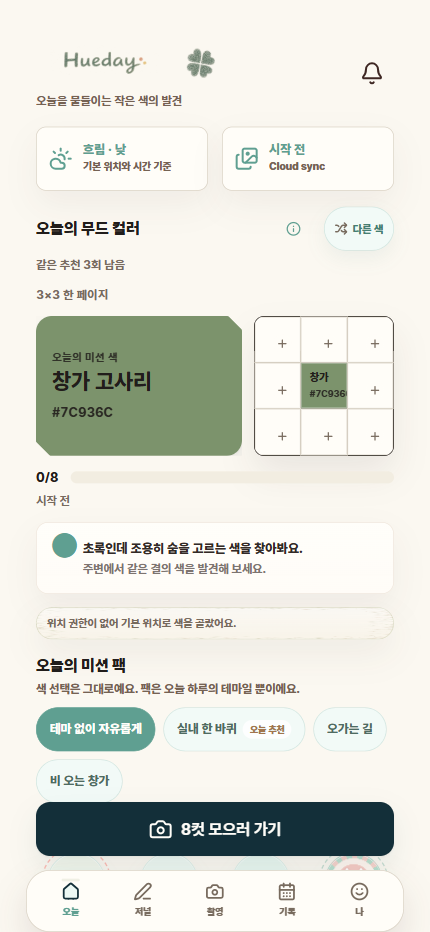
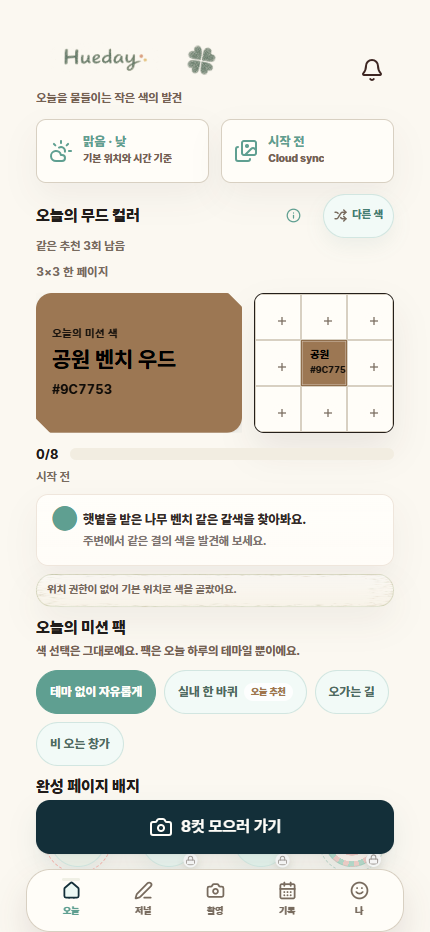
docs: README를 최신 M6.5 프로토타입 화면으로 교체

diff --git a/docs/ai-memory/sessions/2026-07-31-1128-readme-latest-prototype-screens.md b/docs/ai-memory/sessions/2026-07-31-1128-readme-latest-prototype-screens.md
@@ -1,0 +1,61 @@
+# Session record - 2026-07-31-1128 - readme-latest-prototype-screens
+
+## Goal
+
+readme-latest-prototype-screens
+
+## Scope and success conditions
+
+M6.5 최신 로컬 실행 화면 6종으로 포트폴리오 README 임시 교체
+
+## Graphify findings
+
+README 화면은 제품 코드 계약과 분리된 포트폴리오 자산이며 feature 상태를 명시해야 함
+
+## Decision
+
+QA 미완료 최신 UI를 임시 포트폴리오 화면으로 사용하되 main 병합, production 배포, Android QA 완료 증거로 주장하지 않음
+
+## Changes
+
+Home, 색 재추천, Deck, Hueprint, Story, Profile 430x932 화면 교체; 프로토타입 UI 및 최종 QA 전 표시 추가
+
+## Changed files at finish
+
+~~~text
+ M README.md
+ M docs/ai-memory/00-current-state.md
+ M docs/assets/readme/01-home-mission.png
+ M docs/assets/readme/02-color-hunt-progress.png
+ M docs/assets/readme/03-living-hue-deck.png
+ M docs/assets/readme/04-hueprint.png
+ M docs/assets/readme/05-story-studio.png
+ M docs/assets/readme/06-profile.png
+?? ".tmp /"
+?? diff.patch
+?? output/
+~~~
+
+## Verification
+
+최신 feature build 통과; 430x932 로컬 브라우저 직접 캡처; 6개 이미지 치수 확인; README 이미지 링크 7개 모두 존재; 비밀정보 패턴 0건; git diff --check 통과
+
+## Quantitative evidence
+
+README 실행 화면 6장 모두 430x932; 누락 링크 0; 비밀정보 패턴 0
+
+## Failed or deferred approaches
+
+없음
+
+## Documentation impact
+
+README.md, docs/ai-memory/00-current-state.md, 세션 노트
+
+## Career evidence impact
+
+영향 없음: 기능 또는 트러블슈팅 변경이 아닌 포트폴리오 화면 자산 정렬
+
+## Next tasks
+
+M6.5 최종 QA와 production 배포 뒤 README 화면 및 상태 문구를 최종 실행 증거로 다시 갱신

diff --git a/docs/ai-memory/00-current-state.md b/docs/ai-memory/00-current-state.md
@@ -1,6 +1,6 @@
 # 현재 상태
 
-> **2026-07-31 포트폴리오 README 갱신:** 기존 ColorWalk 소개를 Hueday 현재 제품 루프·local-first/Supabase 구조·실제 트러블슈팅·검증 수치·M6.5/M7 상태 중심의 취업 포트폴리오 문서로 교체했다. 최신 M6.5 Home과 production 코드 경로의 Color Hunt/Deck/Hueprint/Story/Profile 430×932 실제 브라우저 캡처 6장을 `docs/assets/readme/`에 선별해 포함했으며, 기존 ignored 디자인 자료와 `output/` 원본은 변경하지 않았다.
+> **2026-07-31 포트폴리오 README 화면 임시 갱신:** README의 Home·색 재추천·Deck·Hueprint·Story·Profile 6장을 모두 `feature/pre-m7-visual-product-polish` 최신 코드의 430×932 로컬 실행 화면으로 교체했다. 이 화면은 `프로토타입 UI · 최종 QA 전`으로 명시했으며 `main` 병합·production 배포·Android 실기기 QA 완료 증거로 사용하지 않는다. 캡처 원본은 `output/playwright/readme-latest-feature/`에만 남기고 README용 선별본만 `docs/assets/readme/`에 포함한다.
 
 > **2026-07-29 M7 전 마감 순서 확정:** M6는 `main`에 통합됐다. Store screenshot과 전체 M7 QA 전에 M6.5 실제 화면·제품 카피 마감을 한 번 수행한다. 실제 430×932/360px/200% 화면에서 승인된 Modern Warm Archive만 좁게 교정하고, `다른 색` 최대 6회(문맥 3+전체 무작위 3, 당일 노출 색 전체 제외), Story 중앙 이름·HEX 표시 선택, 자연스러운 한국어/영어 mission 이름을 구현한다. 그 뒤 M7에서 Android update·보안·Play 출시 gate를 닫는다.
 
